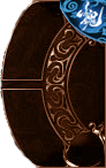
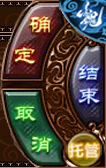
Move trust button to button widget

diff --git a/src/ui/roomscene.cpp b/src/ui/roomscene.cpp
@@ -90,6 +90,7 @@ RoomScene::RoomScene(QMainWindow *main_window)
             ok_button->setParentItem(button_widget);
             cancel_button->setParentItem(button_widget);
             discard_button->setParentItem(button_widget);
+            trust_button->setParentItem(button_widget);
         }
 
         // create dashboard
@@ -415,22 +416,25 @@ void RoomScene::createControlButtons(){
     connect(ok_button, SIGNAL(clicked()), this, SLOT(doOkButton()));
     connect(cancel_button, SIGNAL(clicked()), this, SLOT(doCancelButton()));
     connect(discard_button, SIGNAL(clicked()), this, SLOT(doDiscardButton()));
+
+    trust_button = new TrustButton;
+    trust_button->setPos(69, 133);
+    connect(trust_button, SIGNAL(clicked()), ClientInstance, SLOT(trust()));
+    connect(Self, SIGNAL(state_changed()), this, SLOT(updateTrustButton()));
+
+    // set them all disabled
+    ok_button->setEnabled(false);
+    cancel_button->setEnabled(false);
+    discard_button->setEnabled(false);
+    trust_button->setEnabled(false);
 }
 
 void RoomScene::createExtraButtons(){
-    trust_button = dashboard->createButton("trust");
-    untrust_button = dashboard->createButton("untrust");
     reverse_button = dashboard->createButton("reverse-select");
     reverse_button->setEnabled(true);
 
-    dashboard->addWidget(trust_button, 10, true);
-    dashboard->addWidget(untrust_button, 10, true);
     dashboard->addWidget(reverse_button, 100, true);
-
-    connect(trust_button, SIGNAL(clicked()), ClientInstance, SLOT(trust()));
-    connect(untrust_button, SIGNAL(clicked()), ClientInstance, SLOT(trust()));
     connect(reverse_button, SIGNAL(clicked()), dashboard, SLOT(reverseSelection()));
-    connect(Self, SIGNAL(state_changed()), this, SLOT(updateTrustButton()));
 
     free_discard = NULL;
 }
@@ -508,16 +512,8 @@ void ReplayerControlBar::setTime(int secs){
 }
 
 void RoomScene::createReplayControlBar(){
-    // hide all buttons
-    ok_button->hide();
-    cancel_button->hide();
-    discard_button->hide();
-    trust_button->hide();
-    untrust_button->hide();
+    // hide all buttons    
     reverse_button->hide();
-
-    trust_button->disconnect();
-    untrust_button->disconnect();
 
     new ReplayerControlBar(dashboard);
 }
@@ -2210,9 +2206,7 @@ void RoomScene::doSkillButton(){
 void RoomScene::updateTrustButton(){
     if(!ClientInstance->getReplayer()){
         bool trusting = Self->getState() == "trust";
-        trust_button->setVisible(!trusting);
-        untrust_button->setVisible(trusting);
-
+        trust_button->update();
         dashboard->setTrust(trusting);
     }
 }
@@ -3054,7 +3048,7 @@ void RoomScene::createStateItem(){
 }
 
 void RoomScene::showOwnerButtons(bool owner){
-    if(control_panel && !trust_button->isEnabled())
+    if(control_panel && !game_started)
         control_panel->setVisible(owner);
 }
 
@@ -3217,8 +3211,6 @@ void RoomScene::onGameStart(){
         reLayout();
     }
 
-    trust_button->setEnabled(true);
-    untrust_button->setEnabled(true);
     updateStatus(ClientInstance->getStatus());
 
     QList<const ClientPlayer *> players = ClientInstance->getPlayers();
@@ -3228,6 +3220,8 @@ void RoomScene::onGameStart(){
 
     foreach(Photo *photo, photos)
         photo->createRoleCombobox();
+
+    trust_button->setEnabled(true);
 
 
 #ifdef AUDIO_SUPPORT
@@ -3287,9 +3281,6 @@ void RoomScene::freeze(){
     foreach(Photo *photo, photos)
         photo->setEnabled(false);
     item2player.clear();
-
-    trust_button->setEnabled(false);
-    untrust_button->setEnabled(false);
 
     chat_edit->setEnabled(false);
 
@@ -4058,10 +4049,10 @@ void RoomScene::reLayout(QMatrix matrix)
     pos.rx()+= padding_left;
     pos.ry()+= padding_top;
 
-    alignTo(trust_button,pos,"xlyb");
-    alignTo(untrust_button,pos,"xlyb");
-    pos.rx()+=trust_button->width();
-    pos.rx()+=skip;
+    //alignTo(trust_button,pos,"xlyb");
+//    alignTo(untrust_button,pos,"xlyb");
+//    pos.rx()+=trust_button->width();
+//    pos.rx()+=skip;
 
     alignTo(reverse_button,pos,"xlyb");
     pos.rx()+=reverse_button->width();

diff --git a/src/ui/irregularbutton.cpp b/src/ui/irregularbutton.cpp
@@ -99,7 +99,7 @@ TrustButton::TrustButton(){
     mask = QRegion(QBitmap("image/system/button/irregular/trust-mask.png"));
 }
 
-QRectF TrustButton::boundingRect(){
+QRectF TrustButton::boundingRect() const{
     return QRectF(trust.rect());
 }
 
@@ -110,4 +110,13 @@ void TrustButton::paint(QPainter *painter, const QStyleOptionGraphicsItem *, QWi
         painter->drawPixmap(0, 0, trust);
 }
 
+void TrustButton::mousePressEvent(QGraphicsSceneMouseEvent *event){
+    event->accept();
+}
 
+void TrustButton::mouseReleaseEvent(QGraphicsSceneMouseEvent *event){
+    QPointF pos = mapToParent(event->pos());
+    if(mask.contains(QPoint(pos.x(), pos.y()))){
+        emit clicked();
+    }
+}

diff --git a/src/ui/roomscene.h b/src/ui/roomscene.h
@@ -15,6 +15,7 @@ class Button;
 class CardContainer;
 class GuanxingBox;
 class IrregularButton;
+class TrustButton;
 class QGroupBox;
 
 #include <QGraphicsScene>
@@ -185,8 +186,8 @@ private:
     QQueue<CardItem*> piled_discards;
     QMainWindow *main_window;
     QComboBox *role_combobox;
-    QPushButton *trust_button, *untrust_button;
     IrregularButton *ok_button, *cancel_button, *discard_button;
+    TrustButton *trust_button;
     QPushButton *reverse_button, *free_discard;
     QMenu *known_cards_menu, *change_general_menu;
     Window *prompt_box;

diff --git a/src/ui/irregularbutton.h b/src/ui/irregularbutton.h
@@ -42,10 +42,12 @@ class TrustButton : public QGraphicsObject{
 public:
     explicit TrustButton();
 
-    virtual QRectF boundingRect();
+    virtual QRectF boundingRect() const;
 
 protected:
     virtual void paint(QPainter *painter, const QStyleOptionGraphicsItem *option, QWidget *widget);
+    virtual void mousePressEvent(QGraphicsSceneMouseEvent *event);
+    virtual void mouseReleaseEvent(QGraphicsSceneMouseEvent *event);
 
 private:
     QPixmap trust, untrust;
